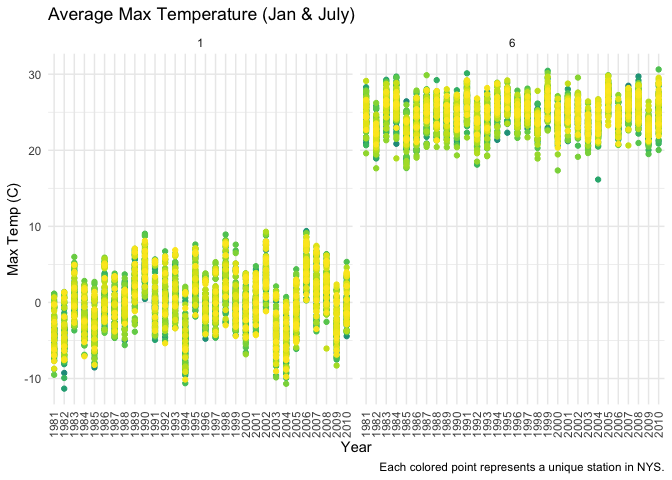
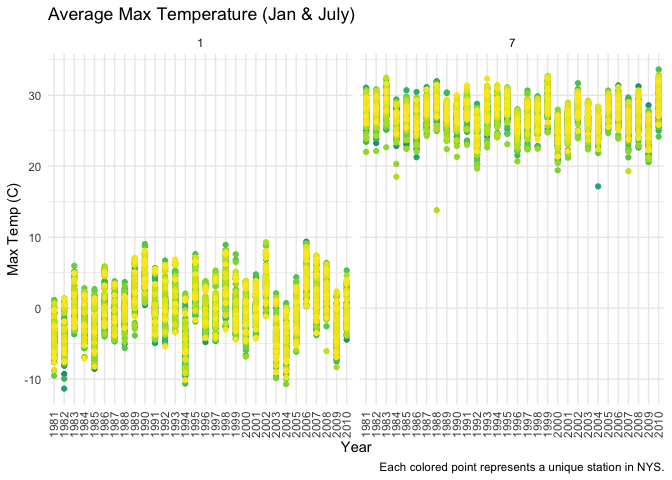
Plot descriptions

diff --git a/p8105_hw3_kdh2140.md b/p8105_hw3_kdh2140.md
@@ -435,11 +435,16 @@ NYS.
 
 ##### Two-panel plot showing the average max temperature in January and in July in each station across years
 
-\*\*\*\* Describe process of making plot.
+This plot is created by grouping the relevant variables (id, month,
+year) and then summarizing the tmax into a new variable to allow
+examination. The plot is then separated by month, using the facet\_grid
+function, to display January and July side by side. Year is plotted
+along the x axis, from 1981 to 2010, with each colored point
+representing a unique station in New York State.
 
 ``` r
 ny_noaa_df %>% 
-  filter(month == c(01, 06)) %>% 
+  filter(month == c(01, 07)) %>% 
   group_by(id, year, month) %>% 
   summarize(mean_tmax = mean(tmax)) %>% 
   ggplot(aes(x = year, y = mean_tmax, color = id)) + 
@@ -463,11 +468,21 @@ ny_noaa_df %>%
   #(on my screen at least) so it has been removed. 
 ```
 
-\*\*\*\* Describe plot results.
+The plot demonstrates that, in January and July, there is mild
+fluctuation between the yearly reports of max temperature in the weather
+stations. Further, January consistently reports cooler temperatures
+throughout this time frame as compared to July. July does have some
+weather stations that are distanced from the cluster, as seen in 1988
+and 2004, but this could represent geographic differences.
 
 ##### Two-panel plot: Temperature and Snowfall
 
-\*\*\*\* Describe
+The following code chunk creates two separate plots and displays them
+side by side through the use of the patchwork function. The first plot
+code creates a hex plot displaying the comparison between aggregate min
+and max temperatures. The second plot code creates a ridge plot
+displayiing the snow distribution by year, filtering by values that are
+greater than 0 but less than 100 mm.
 
 ``` r
 temp = 
@@ -498,4 +513,15 @@ temp + snow_plot
 
 ![](p8105_hw3_kdh2140_files/figure-gfm/two_panel_plot-1.png)<!-- -->
 
-\*\* Describe
+The first plot, *temp*, demonstrates a wide variety of miin and max
+temperatures, with a strong concentration of min and max temperatures
+around 20 (C) and 25 (C) respectively. This represents expected
+temperatures for most of the year in New York State. A second point of
+interest lies at min and max temperature of 0 (C) and 5 (C)
+respectively, which would correspond to the majority of winter months
+experienced in NYS.
+
+The second plot, *snow\_plot*, displays a steady level of snow
+distribution in the years of 1981 to 2010. The overall peaks tend to
+decrease as times go on, but still occur around the same quantity of
+snow (10, 30, 50, and 75 mm of snow distribution, roughly).
